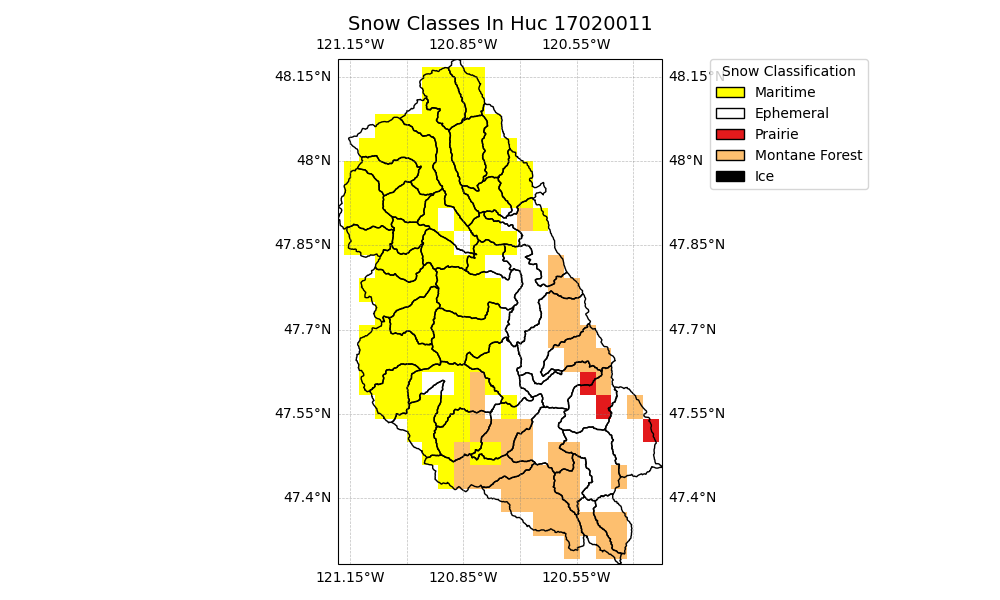
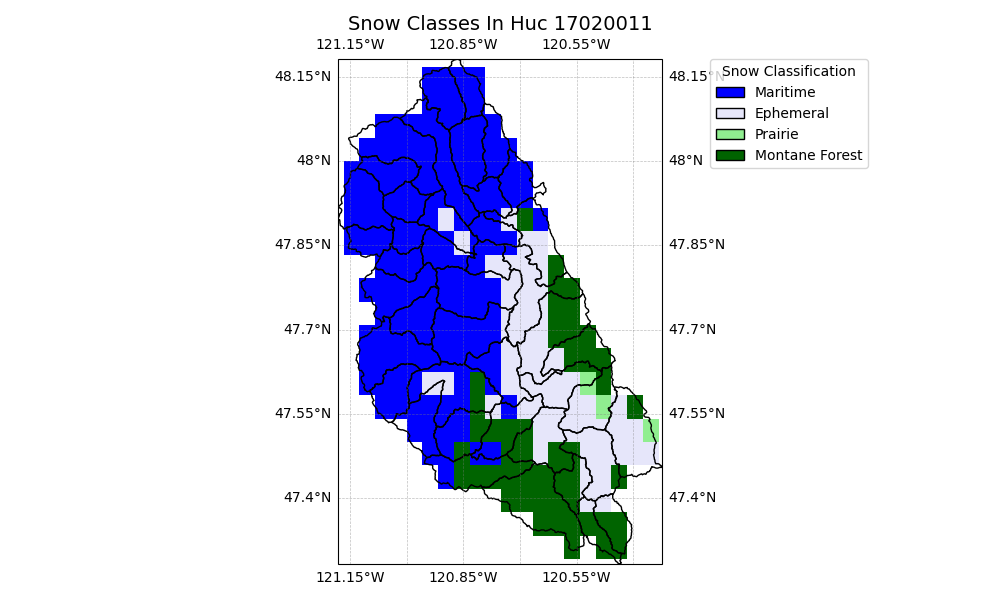
update chart colors

Changed region(s): [[0.341, 0.09, 0.682, 0.93], [0.713, 0.15, 0.775, 0.33]]

diff --git a/src/snowML/viz/vis_utils.py b/src/snowML/viz/vis_utils.py
@@ -121,6 +121,17 @@ def snow_colors():
     }
     return snow_class_colors_small
 
+
+def snow_colors_2():
+    snow_class_colors_small = {
+        3: "blue", # Maritime
+        4: "#E6E6FA",  # Ephemeral (lavender)
+        5: "lightgreen", # Prairie   
+        6: "darkgreen"  # Montane Forest 
+    }
+    return snow_class_colors_small
+
+
 def calc_bounds(geos):
     merged_geom = geos.geometry.union_all()
     outer_bound = merged_geom.convex_hull
@@ -138,7 +149,7 @@ def map_snow_types(ds, geos, huc, class_colors = None, output_dir = None):
     # Add a baselayer
     
     if class_colors is None:
-        class_colors = snow_colors()
+        class_colors = snow_colors_2()
     # Create a colormap and normalization based on the dictionary
     cmap = mcolors.ListedColormap([class_colors[i] for i in sorted(class_colors.keys())])
     bounds = list(class_colors.keys()) + [max(class_colors.keys()) + 1]  # Class boundaries
@@ -217,45 +228,14 @@ def plot_dem(dem_ds, geos, huc_id):
 
 def create_vis_all(initial_huc, final_huc_lev):
     geos = gg.get_geos(initial_huc, final_huc_lev)
-    basic_map(geos, final_huc_lev, initial_huc) # create and save basic map
+    #basic_map(geos, final_huc_lev, initial_huc) # create and save basic map
     ds_snow = st.snow_class_data_from_s3(geos) 
     map_snow_types(ds_snow, geos, initial_huc) # create and save snow class map
-    dem_ds = gd.get_dem(geos)
-    plot_dem(dem_ds, geos, initial_huc) # create and save map of elevation
+    #dem_ds = gd.get_dem(geos)
+    #plot_dem(dem_ds, geos, initial_huc) # create and save map of elevation
     # for huc in geos["huc_id"].tolist(): # create and save map of actuals
         # plot_actual(huc, "mean_swe", initial_huc, bucket_dict = None)
     # swe_summary = basin_swe_summary(initial_huc, final_huc_lev) # create and save csv of median peak
     
 
 
-
-
-
-
-
-# def plot_actual_from_bronze(huc, var, bucket_dict = None):
-#     geos = gg.get_geos(huc, str(len(str(huc))).zfill(2))
-#     print(geos.head(2))
-    
-#     if bucket_dict is None:
-#         bucket_dict = sdc.create_bucket_dict("prod")
-#     b_name = bucket_dict.get("bronze")
-#     zarr_store_url = f's3://{b_name}/{var}_all.zarr'
-
-#     # Open the Zarr file directly with storage options
-#     ds = xr.open_zarr(zarr_store_url, consolidated=True, storage_options={'anon': False})
-#     # Process the dataset as needed
-#     if var != "swe":
-#         transform = du.calc_transform(ds)
-#         ds = ds.rio.write_transform(transform, inplace=True)
-#     else:
-#         ds.rio.set_spatial_dims(x_dim="lon", y_dim="lat", inplace=True)
-        
-#     ds.rio.write_crs("EPSG:4326", inplace=True)
-#     ds.close()  # Close the dataset after processing
-    
-#     geo = geos.iloc[[0]].geometry
-#     crs = geos.crs
-#     ds_small = ds.rio.clip(geo, crs, drop = True, invert = False)
-    
-#     # TO DO - TAKE MEAN, CONVERT TO DF, and PLOT 

diff --git a/src/snowML/viz/download_metrics.py b/src/snowML/viz/download_metrics.py
@@ -28,6 +28,12 @@ def create_run_dict_Ex3Eval():
     run_dict["Test_Set_B"] = "148f7dddc0814c4f86bb93edbc425c4c" # bittersweet croc
     return run_dict
 
+def create_run_dict_Ex1():
+    run_dict = {}
+    run_dict["new10_rerun"] = "bfdd8164ce1f46d8a9418be41a70ffdf"
+    run_dict["orig200_rerun"] = "02a508daab8e42b2a5f1baab194cd744"
+    return run_dict
+
 
 # function to retrieve metrics from ML server
 def load_ml_metrics(
